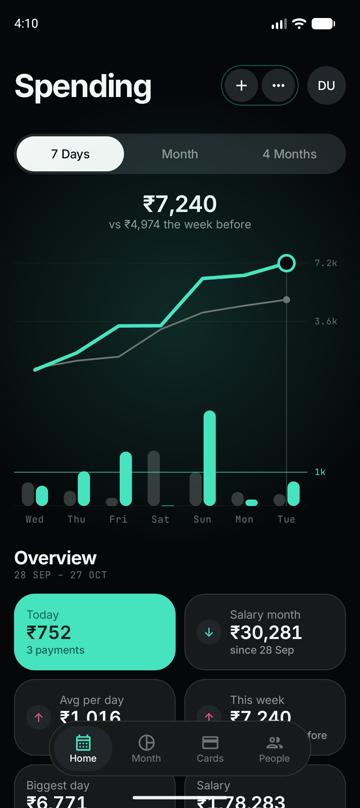
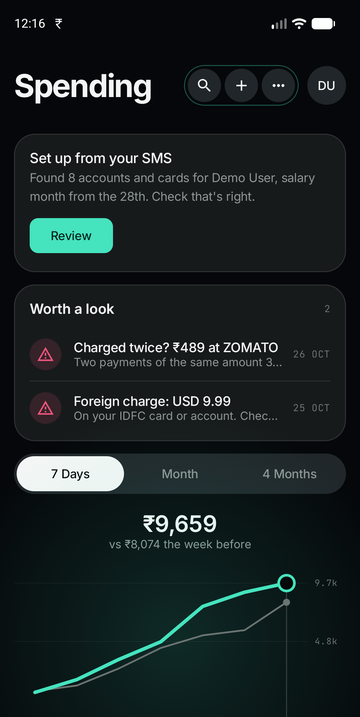
v0.3.0: README and screenshots for the new screens, version bump, F-Droid text

diff --git a/README.md b/README.md
@@ -16,7 +16,7 @@ No sign-up · no bank login · no internet permission · everything stays on the
 
 ## Download
 
-1. Get **`Spend-v0.2.0.apk`** from [Releases](../../releases/latest)
+1. Get **`Spend-v0.3.0.apk`** from [Releases](../../releases/latest)
 2. Android 12 or newer; allow "Install unknown apps" when asked
 3. Open it, tap **Grant permissions**. Your last 120 days of bank SMS are read once
 
@@ -26,24 +26,44 @@ No sign-up · no bank login · no internet permission · everything stays on the
 
 ## What it does
 
-| | Feature | |
-|---|---|---|
-| 🔔 | **Always-on notification** | Today and salary-month totals, updated the moment a bank SMS lands |
-| 💳 | **Credit card utilisation** | % of each limit used, with *"pay ₹X before the statement date to stay under 30%"* |
-| ⏰ | **Bill reminders** | Due date, total and minimum from the statement SMS; reminded 3 days before and on the day |
-| 🎯 | **Budgets** | Monthly and per category; alerts at 80%, 100% and when you're ahead of pace |
-| ➗ | **Split a payment** | Tap a payment → split equally or custom, with People or contacts; only your share counts |
-| 🤝 | **Owed to you** | Splits and loans tracked per person; cleared automatically when they pay you back by UPI |
-| 🔁 | **Subscriptions** | Recurring charges, next date, price-rise flag |
-| 📅 | **Day, month & year** | Calendar, category donut, pace vs last month, 12-month view |
-| 👥 | **People** | Friends merged across UPI IDs and bank names |
-| 💰 | **Salary month** | Runs salary to salary, detected from your credit SMS |
-| 🏠 | **Rent detection** | Spots the monthly transfer to the same person |
-| 🧹 | **No double counting** | Card bills, transfers between your own accounts and repeated SMS are left out |
-| 🔍 | **Search** | Payee, category, card, amount or SMS text |
-| 📥 | **Statement import** | Bank CSV fills history from before you installed the app |
-| 🔐 | **Encrypted backup** | AES-256 file with your password, saved wherever you pick |
-| 🧩 | **Widget & themes** | Home-screen widget; dark, light or follow the system |
+**Track**
+
+| | |
+|---|---|
+| 🔔 **Always-on notification** | Today and salary-month totals, updated the moment a bank SMS lands |
+| 📅 **Day, month, year** | Calendar, category donut, pace vs last month, 12-month view |
+| 💰 **Salary month** | Runs salary to salary; savings rate per month |
+| 🧹 **No double counting** | Card bills, transfers between your own accounts and repeated SMS are left out |
+| 🔍 **Search & tags** | Find by payee, amount, card or tag; tag any payment ("office", "gift") |
+
+**Plan**
+
+| | |
+|---|---|
+| 💳 **Card utilisation** | % of each limit used, and *"pay ₹X before the statement date to stay under 30%"* |
+| ⏰ **Bill reminders** | From the statement SMS: 3 days before and on the due day, skipped once paid |
+| 🎯 **Budgets** | Monthly and per category; alerts at 80%, 100% and when you're ahead of pace |
+| 🔁 **Recurring** | Subscriptions (with price-rise alerts), EMIs and investments, each in one list |
+| ✈ **Trips** | A trip's dates (plus anything tagged with its name), apart from normal months |
+
+**People**
+
+| | |
+|---|---|
+| ➗ **Split a payment** | Equal or custom, with People or contacts; only your share counts |
+| 🤝 **Owed to you** | Splits and loans per person; cleared when they pay you back by UPI |
+| 👥 **One person, many IDs** | Friends merged across UPI IDs and bank names |
+
+**Safety & control**
+
+| | |
+|---|---|
+| 🚨 **Worth a look** | Double charges, unusually large payments, foreign-currency charges |
+| 🧠 **Teach an SMS** | Tap the amount and payee in an unread SMS; Spend reads that shape from then on (on the phone, no AI, no internet) |
+| 🔒 **App lock** | Fingerprint, face or phone PIN; hidden from the recent-apps preview |
+| ☁ **Weekly backup** | Encrypted, to Google Drive or a folder you pick; restore on a new phone |
+| 🌙 **Evening summary** | Optional quiet 9 pm notification with today's spend |
+| 🧩 **Widget & themes** | Home-screen widget; dark, light or follow the system |
 
 ---
 
@@ -57,8 +77,8 @@ Card issuers report your balance to the credit bureaus (CIBIL, Experian…) on t
 | **10–30%** | Healthy. Shows what gets it under 10% |
 | **30% and over** | Rose warning + notification: *"Pay ₹2,800 before 11 Nov to report under 30%"* |
 
-- The limit comes from your SMS (`Avl Limit` in ICICI, Axis, Yes, IDFC spends; `Available limit` in HDFC payments). You can set it by hand.
-- The statement date comes from the statement SMS (SBI, ICICI, HDFC…). You can set that by hand too.
+- The limit comes from your SMS (`Avl Limit` in card spends, `Available limit` in payment confirmations). You can set it by hand.
+- The statement date comes from the statement SMS. You can set that by hand too.
 
 ---
 
@@ -66,21 +86,21 @@ Card issuers report your balance to the credit bureaus (CIBIL, Experian…) on t
 
 <sub>All screenshots use the built-in demo data. No real accounts, names or amounts.</sub>
 
-| Home | Overview | Month |
+| Home | Month · Trends | Month · Recurring |
 |:-:|:-:|:-:|
-| <img src="docs/screenshots/home.png" width="240" alt="Home: 7-day spend chart" /> | <img src="docs/screenshots/overview.png" width="240" alt="Overview tiles" /> | <img src="docs/screenshots/salary-pace.png" width="240" alt="Salary and pace" /> |
+| <img src="docs/screenshots/home.png" width="240" alt="Home with Worth a look" /> | <img src="docs/screenshots/trends.png" width="240" alt="Four months and savings rate" /> | <img src="docs/screenshots/recurring.png" width="240" alt="Subscriptions, EMIs, investments" /> |
 
-| Credit card utilisation | Budgets | Owed to you |
+| Card utilisation | Budgets | Owed to you |
 |:-:|:-:|:-:|
-| <img src="docs/screenshots/utilisation.png" width="260" alt="Card at 33% of limit with pay-before advice" /> | <img src="docs/screenshots/budgets.png" width="260" alt="Budgets with over-budget category" /> | <img src="docs/screenshots/owed.png" width="260" alt="People who owe you from a split" /> |
+| <img src="docs/screenshots/utilisation.png" width="260" alt="Card at 33% of limit" /> | <img src="docs/screenshots/budgets.png" width="260" alt="Budgets" /> | <img src="docs/screenshots/owed.png" width="260" alt="People who owe you" /> |
 
-| Split a payment | Subscriptions & year | Light theme |
+| Split a payment | Teach an SMS | Trip |
 |:-:|:-:|:-:|
-| <img src="docs/screenshots/split.png" width="240" alt="Split sheet" /> | <img src="docs/screenshots/subs-year.png" width="240" alt="Subscriptions and 12-month view" /> | <img src="docs/screenshots/light.png" width="240" alt="Month screen in light theme" /> |
+| <img src="docs/screenshots/split.png" width="240" alt="Split sheet" /> | <img src="docs/screenshots/teach.png" width="240" alt="Teaching an unread SMS" /> | <img src="docs/screenshots/trip.png" width="240" alt="Goa trip totals" /> |
 
-| Cards | People | Setup |
+| More | App lock | Light theme |
 |:-:|:-:|:-:|
-| <img src="docs/screenshots/cards.png" width="240" alt="Spend per card" /> | <img src="docs/screenshots/people.png" width="240" alt="People list" /> | <img src="docs/screenshots/setup.png" width="240" alt="Accounts detected from SMS" /> |
+| <img src="docs/screenshots/more.png" width="240" alt="More, grouped into sections" /> | <img src="docs/screenshots/lock.png" width="240" alt="Locked screen" /> | <img src="docs/screenshots/light.png" width="240" alt="Light theme" /> |
 
 ---
 
@@ -91,8 +111,9 @@ Card issuers report your balance to the credit bureaus (CIBIL, Experian…) on t
 | HDFC · SBI · ICICI · DCB | Axis · Kotak · IDFC FIRST · Yes · AU · IndusInd · Bank of Baroda · PNB · Canara · Union · Federal · Indian · IOB · BOI · Central · UCO · IDBI · RBL · Equitas · Bandhan · Karnataka · South Indian · City Union · HSBC · Standard Chartered · Amex · OneCard · Slice · Airtel · Jio |
 
 - **Exact layouts** are tested against real SMS (names and numbers changed).
-- **Generic rules** read the common phrasing: amount, debit or credit, account or card, payee, date.
-- Anything unsure goes to **More → SMS I couldn't read**. It is never guessed.
+- **Generic rules** were checked against 278 real SMS from 22 banks collected from other open-source parsers' test suites: 234 read, the rest correctly ignored (OTPs, requests, mandates, "will be debited", failed payments) or foreign-currency.
+- Offer and scam wording is never counted, however money-like it reads.
+- Anything unsure goes to **More → SMS I couldn't read**, where you can teach it.
 
 ---
 
@@ -102,39 +123,34 @@ Card issuers report your balance to the credit bureaus (CIBIL, Experian…) on t
 |---|---|
 | ❌ Internet | No `INTERNET` permission: the app **cannot** send data anywhere |
 | ❌ Accounts, ads, analytics | None |
-| ❌ Cloud backup | Off. Your own encrypted file is the only backup |
+| ✅ Backups | Only your own encrypted file. Google Drive uploads it; the app never touches the network |
 | ✅ SMS read | Only from bank sender IDs; OTPs and promos are skipped |
 | ✅ Contacts | Not requested. Picking a contact for a split uses Android's picker |
-| ✅ Setup | Nothing hardcoded: accounts, name and salary day are detected on the phone and confirmed by you |
+| ✅ App lock | Android's own fingerprint / PIN prompt; nothing is stored by the app |
 
 ---
 
 ## Battery
 
-- No polling, no wake locks
-- Wakes only when an SMS arrives, plus one inexact alarm at midnight
-- Alerts and the widget update on those same moments
+- No polling, no wake locks, **no alarm sounds**
+- Wakes only when an SMS arrives, plus one silent system timer after midnight to reset "Today"
+- The weekly backup, bill reminders and alerts ride on those same moments
+- The optional 9 pm summary is one more silent timer, only while it's switched on
 
 ---
 
-## How it works
+## How it's built
 
 ```
-Bank SMS ─► SmsReceiver ─► SQLite (raw SMS only)
-                               │
-              ┌────────────────┼──────────────────┐
-              ▼                ▼                  ▼
-          SmsReader        CardFacts          Statement CSV
-   (exact + generic rules) (limits, bills)
-              │                │                  │
-              ▼                ▼                  ▼
-          Classifier ──► Dedupe ──► Owe ──► Ledger / Credit / Budgets
-                                                   │
-                                  Notification · Alerts · Widget · UI
+core/     pure Kotlin, unit-tested: SMS reading, classifying, ledger, credit,
+          budgets, splits, insights, teach-an-SMS (no Android imports)
+data/     SQLite store (raw SMS + your edits), Repo, backup
+notify/   notification, alerts, widget, midnight + evening timers
+ui/       one file per screen; AppController runs actions, SheetHost/PageHost route
 ```
 
 - Only raw SMS are stored; every number is recomputed from them, so fixing a parser fixes history too
-- Your own accounts and UPI IDs are learned from same-amount transfers between them
+- Screens only draw and describe actions; one controller does the work, so each piece has one job
 
 ---
 
@@ -145,11 +161,11 @@ Requirements: Android Studio (JDK 17+), Android SDK 37.
 ```bash
 git clone https://github.com/DdarkSaber/Spend.git
 cd Spend
-./gradlew testDebugUnitTest   # 95 tests: parsers, classifier, credit, budgets, splits, CSV
+./gradlew testDebugUnitTest   # 116 tests
 ./gradlew assembleDebug       # app/build/outputs/apk/debug/
 ```
 
-- Debug builds have **More → Load demo data**
+- Debug builds have **Load demo data** on an empty Home
 - Release signing reads an untracked `keystore.properties` (`storeFile`, `storePassword`, `keyAlias`, `keyPassword`); without it the release build is unsigned
 - `fastlane/metadata/` holds the F-Droid listing text
 
